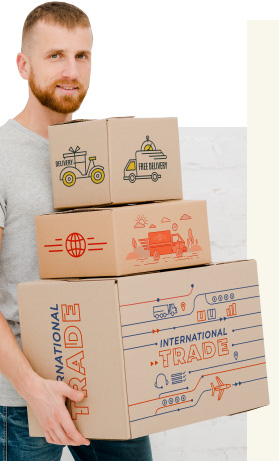
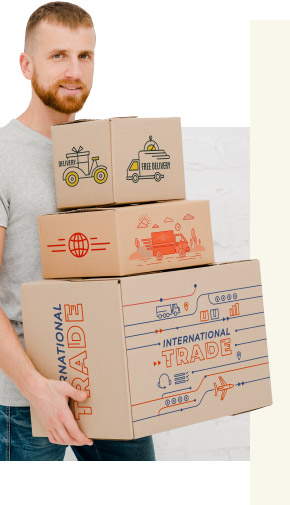
outlook-img

diff --git a/index.html b/index.html
@@ -95,7 +95,7 @@
 <![endif]-->
 <table class="outer" align="center" cellpadding="0" cellspacing="0" border="0" style="border-spacing:0;mso-table-lspace:0pt;mso-table-rspace:0pt;Margin:0 auto;width:100%;max-width:600px;border-collapse:collapse;" >
 <tr>
-    <td align="left" valign="top" style="padding-top:0;padding-bottom:0;padding-right:0;padding-left:0;" >
+    <td align="right" valign="top" style="padding-top:0;padding-bottom:0;padding-right:0;padding-left:0;" >
 <!--[if (gte mso 9)|(IE)]>
  <img src="https://fomenko2v.github.io/max_cuprum/boxman.jpg" alt="" width="277" height="460" style="display:block;border-width:0;-ms-interpolation-mode:bicubic;" />  
 <![endif]-->
